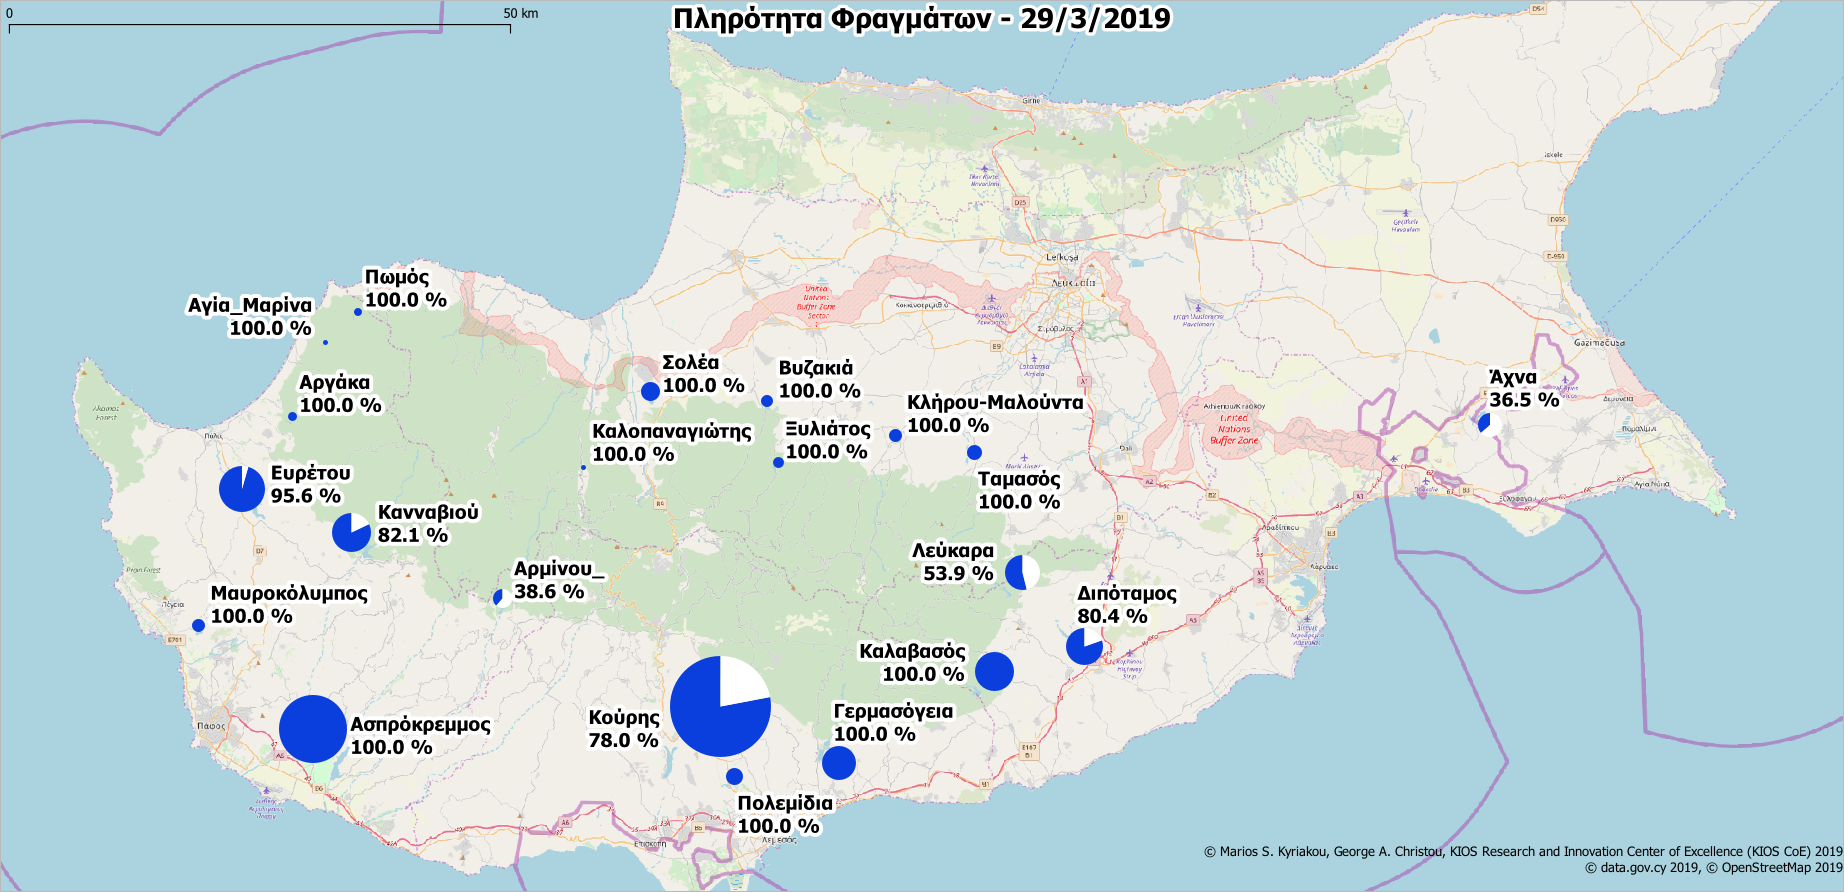
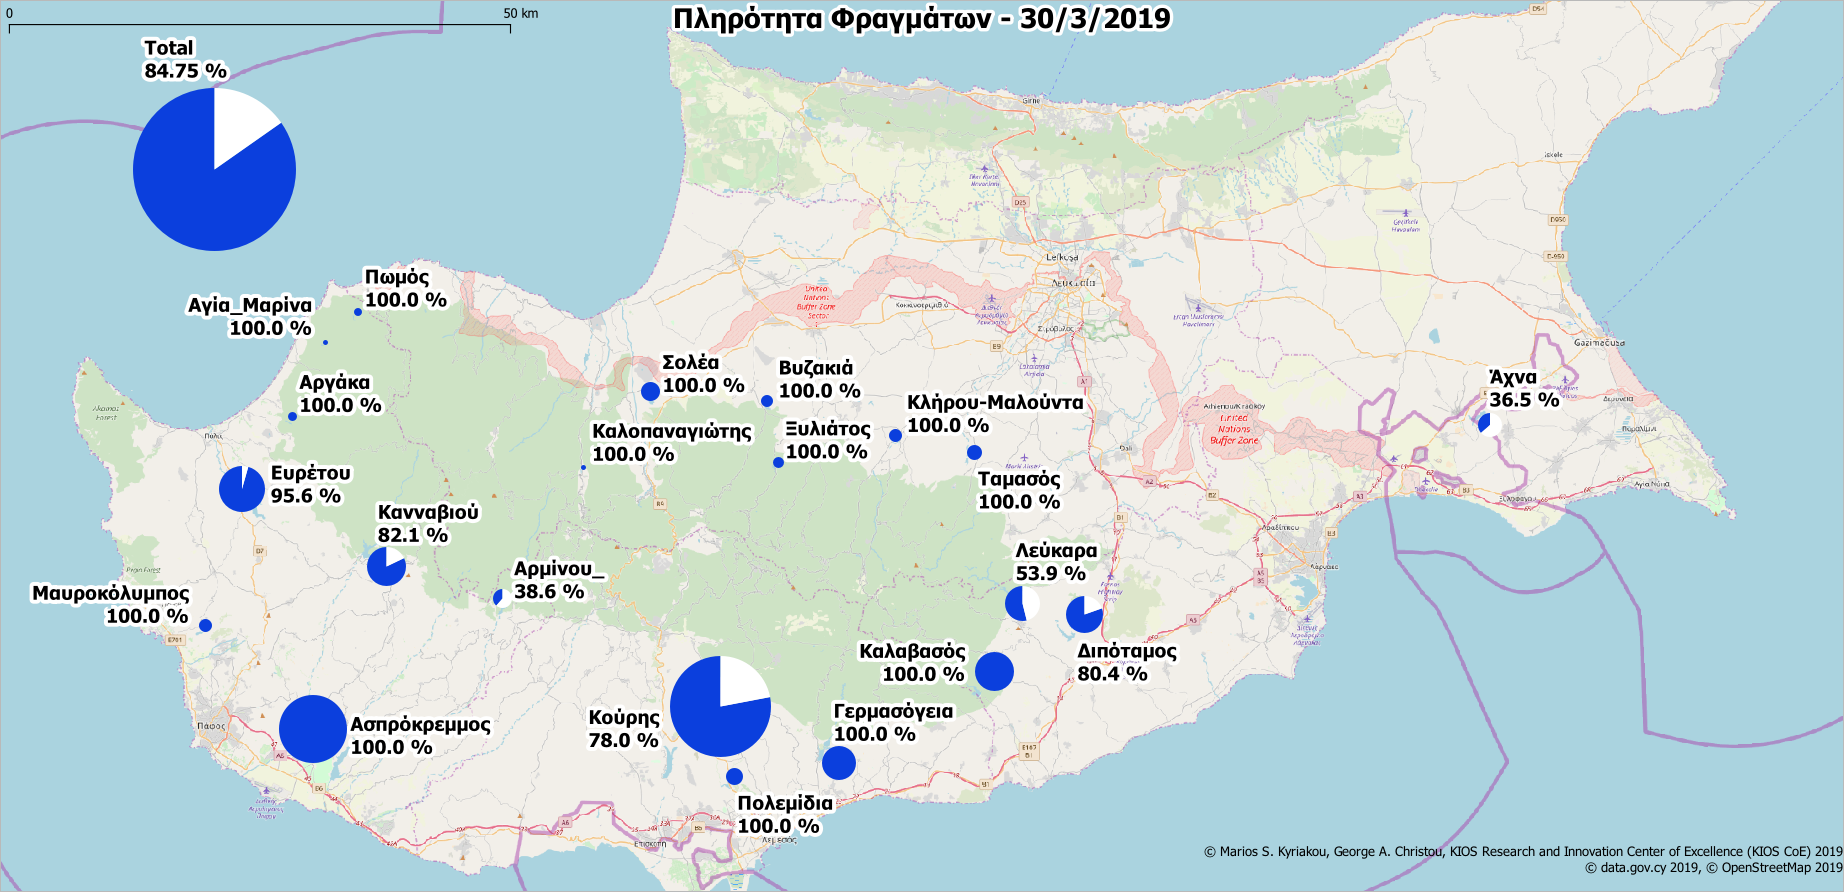
update

diff --git a/dams.html b/dams.html
@@ -6,16 +6,15 @@
     background:#dddddd;
 }
 }
-</style><p><b>Ημερομηνία ανανέωσης δεδομένων: 29/3/2019<p><font color="#0000FF">Η συνολική πληρότητα στα φράγματα είναι 84.73%</font>.<p>Υπάρχουν συνολικά <font color="#0000FF">14</font> φράγματα με πληρότητα <font color="#0000FF">100%</font>.<p>Υπάρχουν <font color="#0000FF">19</font> φράγματα με πληρότητα πάνω από <font color="#0000FF">50%</font>.</b><p><b>Υπάρχουν δεδομένα για 21 φράγματα. Συνολικά υπάρχουν 108 φράγματα. <b><p><p><p>* million cubic metres<table width="444">
+</style><p><b>Ημερομηνία ανανέωσης δεδομένων: 30/3/2019<p><font color="#0000FF">Η συνολική πληρότητα στα φράγματα είναι 84.73%</font>.<p>Υπάρχουν συνολικά <font color="#0000FF">14</font> φράγματα με πληρότητα <font color="#0000FF">100%</font>.<p>Υπάρχουν <font color="#0000FF">19</font> φράγματα με πληρότητα πάνω από <font color="#0000FF">50%</font>.</b><p><b>Υπάρχουν δεδομένα για 21 φράγματα. Συνολικά υπάρχουν 108 φράγματα. <b><p><p><p>* million cubic metres<table width="444">
 <tbody>
 <tr>
 <th width="2"><b></b></th>
-<th width="60"><b>Date</b></th>
 <th width="60"><b>Reservoir</b></th>
 <th width="60"><b>Capacity (MCM)</b></th>
 <th width="60"><b>CurrentStorage (MCM)</b></th>
 <th width="60"><b>CurrentStorage (%)</b></th>
-</tr><tr><td>1</td><td>29/3/2019</td><td>Κούρης</td><td>115.0</td><td>89.684</td><td>78.0</td></tr><tr><tr><td>2</td><td>29/3/2019</td><td>Ασπρόκρεμμος</td><td>52.375</td><td>52.375</td><td>100.0</td></tr><tr><tr><td>3</td><td>29/3/2019</td><td>Ευρέτου</td><td>24.0</td><td>22.947</td><td>95.6</td></tr><tr><tr><td>4</td><td>29/3/2019</td><td>Κανναβιού</td><td>17.168</td><td>14.101</td><td>82.1</td></tr><tr><tr><td>5</td><td>29/3/2019</td><td>Καλαβασός</td><td>17.1</td><td>17.1</td><td>100.0</td></tr><tr><tr><td>6</td><td>29/3/2019</td><td>Διπόταμος</td><td>15.5</td><td>12.468</td><td>80.4</td></tr><tr><tr><td>7</td><td>29/3/2019</td><td>Λεύκαρα</td><td>13.85</td><td>7.466</td><td>53.9</td></tr><tr><tr><td>8</td><td>29/3/2019</td><td>Γερμασόγεια</td><td>13.5</td><td>13.5</td><td>100.0</td></tr><tr><tr><td>9</td><td>29/3/2019</td><td>Άχνα</td><td>6.8</td><td>2.485</td><td>36.5</td></tr><tr><tr><td>10</td><td>28/3/2019</td><td>Σολέα</td><td>4.454</td><td>4.454</td><td>100.0</td></tr><tr><tr><td>11</td><td>29/3/2019</td><td>Αρμίνου_</td><td>4.3</td><td>1.66</td><td>38.6</td></tr><tr><tr><td>12</td><td>29/3/2019</td><td>Πολεμίδια</td><td>3.4</td><td>3.4</td><td>100.0</td></tr><tr><tr><td>13</td><td>28/3/2019</td><td>Ταμασός</td><td>2.8</td><td>2.8</td><td>100.0</td></tr><tr><tr><td>14</td><td>29/3/2019</td><td>Μαυροκόλυμπος</td><td>2.18</td><td>2.18</td><td>100.0</td></tr><tr><tr><td>15</td><td>28/3/2019</td><td>Κλήρου-Μαλούντα</td><td>2.0</td><td>2.0</td><td>100.0</td></tr><tr><tr><td>16</td><td>29/3/2019</td><td>Βυζακιά</td><td>1.69</td><td>1.69</td><td>100.0</td></tr><tr><tr><td>17</td><td>29/3/2019</td><td>Ξυλιάτος</td><td>1.43</td><td>1.43</td><td>100.0</td></tr><tr><tr><td>18</td><td>29/3/2019</td><td>Αργάκα</td><td>0.99</td><td>0.99</td><td>100.0</td></tr><tr><tr><td>19</td><td>29/3/2019</td><td>Πωμός</td><td>0.86</td><td>0.86</td><td>100.0</td></tr><tr><tr><td>20</td><td>29/3/2019</td><td>Καλοπαναγιώτης</td><td>0.363</td><td>0.363</td><td>100.0</td></tr><tr><tr><td>21</td><td>29/3/2019</td><td>Αγία_Μαρίνα</td><td>0.298</td><td>0.298</td><td>100.0</td></tr><tr>
+</tr><tr><td>1</td><td>Κούρης</td><td>115.0</td><td>89.684</td><td>78.0</td></tr><tr><tr><td>2</td><td>Ασπρόκρεμμος</td><td>52.375</td><td>52.375</td><td>100.0</td></tr><tr><tr><td>3</td><td>Ευρέτου</td><td>24.0</td><td>22.947</td><td>95.6</td></tr><tr><tr><td>4</td><td>Κανναβιού</td><td>17.168</td><td>14.101</td><td>82.1</td></tr><tr><tr><td>5</td><td>Καλαβασός</td><td>17.1</td><td>17.1</td><td>100.0</td></tr><tr><tr><td>6</td><td>Διπόταμος</td><td>15.5</td><td>12.468</td><td>80.4</td></tr><tr><tr><td>7</td><td>Λεύκαρα</td><td>13.85</td><td>7.466</td><td>53.9</td></tr><tr><tr><td>8</td><td>Γερμασόγεια</td><td>13.5</td><td>13.5</td><td>100.0</td></tr><tr><tr><td>9</td><td>Άχνα</td><td>6.8</td><td>2.485</td><td>36.5</td></tr><tr><tr><td>10</td><td>Σολέα</td><td>4.454</td><td>4.454</td><td>100.0</td></tr><tr><tr><td>11</td><td>Αρμίνου_</td><td>4.3</td><td>1.66</td><td>38.6</td></tr><tr><tr><td>12</td><td>Πολεμίδια</td><td>3.4</td><td>3.4</td><td>100.0</td></tr><tr><tr><td>13</td><td>Ταμασός</td><td>2.8</td><td>2.8</td><td>100.0</td></tr><tr><tr><td>14</td><td>Μαυροκόλυμπος</td><td>2.18</td><td>2.18</td><td>100.0</td></tr><tr><tr><td>15</td><td>Κλήρου-Μαλούντα</td><td>2.0</td><td>2.0</td><td>100.0</td></tr><tr><tr><td>16</td><td>Βυζακιά</td><td>1.69</td><td>1.69</td><td>100.0</td></tr><tr><tr><td>17</td><td>Ξυλιάτος</td><td>1.43</td><td>1.43</td><td>100.0</td></tr><tr><tr><td>18</td><td>Αργάκα</td><td>0.99</td><td>0.99</td><td>100.0</td></tr><tr><tr><td>19</td><td>Πωμός</td><td>0.86</td><td>0.86</td><td>100.0</td></tr><tr><tr><td>20</td><td>Καλοπαναγιώτης</td><td>0.363</td><td>0.363</td><td>100.0</td></tr><tr><tr><td>21</td><td>Αγία_Μαρίνα</td><td>0.298</td><td>0.298</td><td>100.0</td></tr><tr>
 </tr>
 <tr>
 <td></td>
